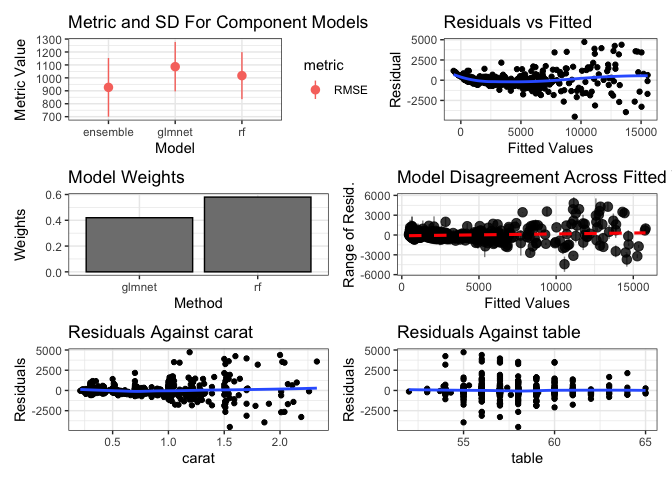
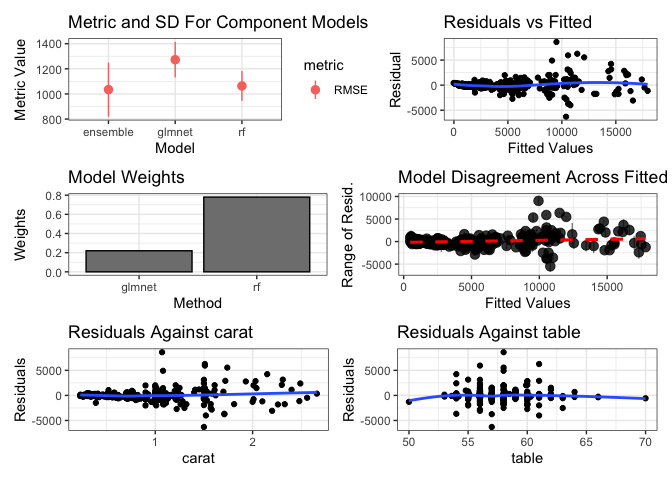
docs

diff --git a/README.md b/README.md
@@ -59,18 +59,18 @@ print(greedy_stack)
 #> Summary of sample sizes: 400, 400, 400, 400, 400 
 #> Resampling results:
 #> 
-#>   RMSE      Rsquared   MAE     
-#>   926.6459  0.9467796  558.8281
+#>   RMSE      Rsquared   MAE    
+#>   1034.614  0.9347528  517.897
 #> 
 #> Tuning parameter 'max_iter' was held constant at a value of 100
 #> 
 #> Final model:
 #> Greedy MSE
-#> RMSE:  944.4731 
+#> RMSE:  1047.523 
 #> Weights:
 #>        [,1]
-#> rf     0.58
-#> glmnet 0.42
+#> rf     0.78
+#> glmnet 0.22
 ggplot2::autoplot(greedy_stack, training_data = dat, xvars = c("carat", "table"))
 ```
 
@@ -93,7 +93,7 @@ print(rf_stack)
 #> Resampling results:
 #> 
 #>   RMSE      Rsquared   MAE     
-#>   1039.019  0.9269161  558.9834
+#>   1107.429  0.9264549  532.1966
 #> 
 #> Tuning parameter 'mtry' was held constant at a value of 2
 #> 
@@ -105,8 +105,8 @@ print(rf_stack)
 #>                      Number of trees: 500
 #> No. of variables tried at each split: 2
 #> 
-#>           Mean of squared residuals: 1031204
-#>                     % Var explained: 93.15
+#>           Mean of squared residuals: 1293471
+#>                     % Var explained: 92.1
 ggplot2::autoplot(rf_stack, training_data = dat, xvars = c("carat", "table"))
 ```
 
